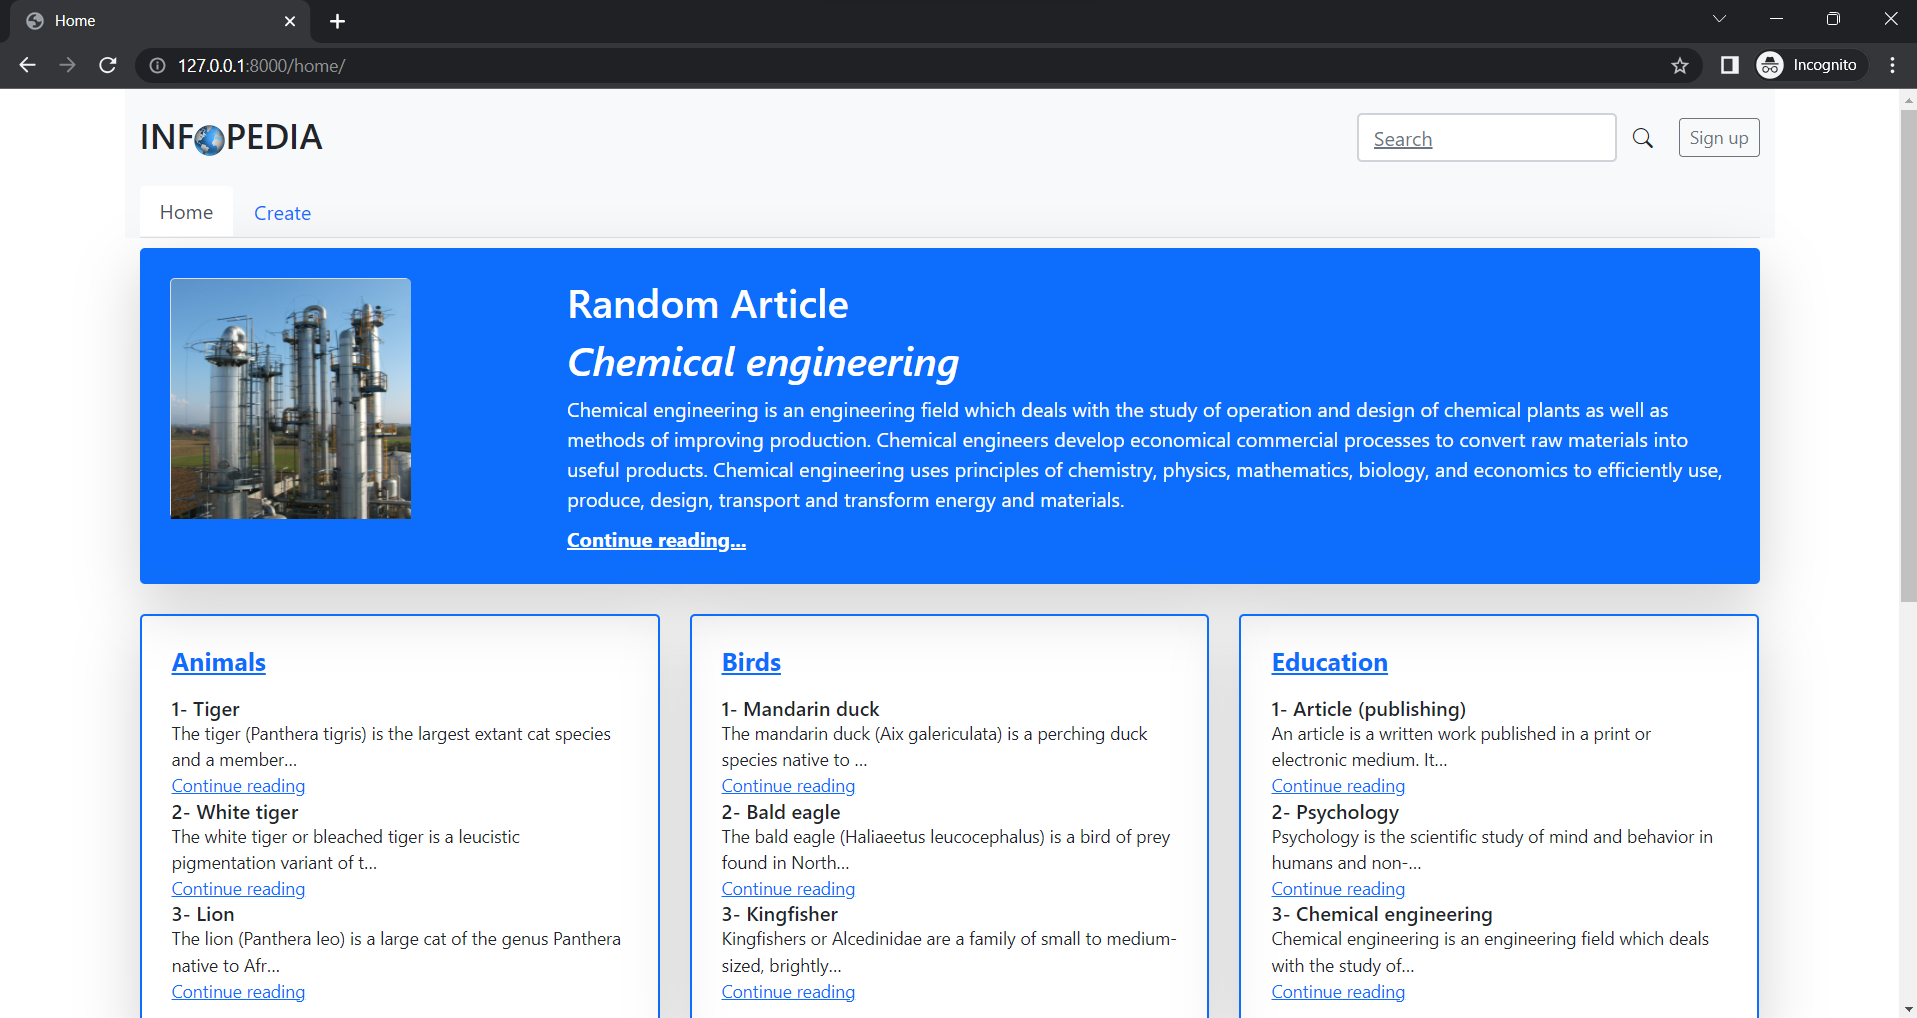
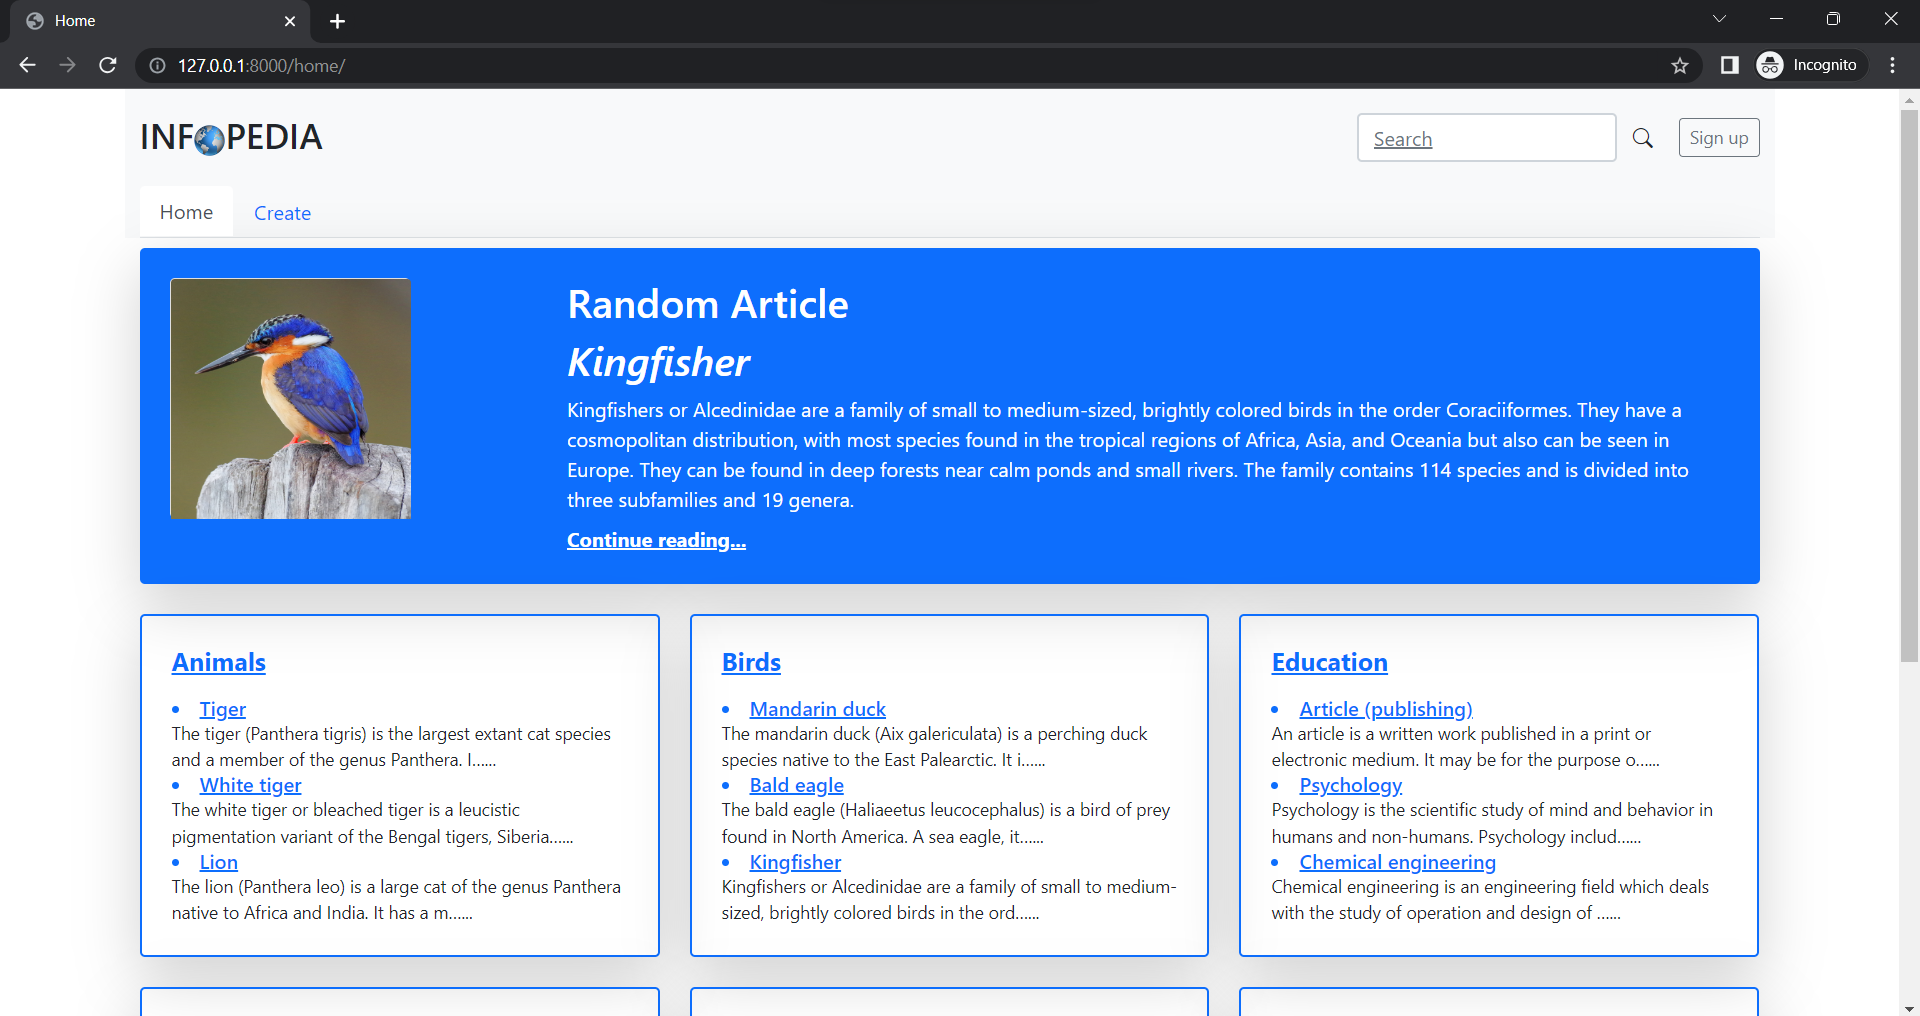
minor changes

diff --git a/index/templates/index/articles/home.html b/index/templates/index/articles/home.html
@@ -33,9 +33,10 @@
       <div class="col p-4 d-flex flex-column position-static">
         <h5><strong class="d-inline-block mb-2 text-primary"><a href="{% url 'category' category.id  category.category %}">{{category}}</a></strong></h5>
         {% for article in category.mainarticle.all|slice:":3" %}
-        <h6 class="mb-0">{{forloop.counter}}- {{article.title}}</h6>
-        <small class="card-text mb-auto">{{article.short_description|truncatechars:75}}</small>
-        <small><a href="{% url 'article_detail' article.id article.slug %}" class="">Continue reading</a></small>
+        <a href="{% url 'article_detail' article.id article.slug %}" class="">
+          <h6 class="mb-0"><li> {{article.title}}</li></h6>
+        </a>
+        <small class="card-text mb-auto">{{article.short_description|truncatechars:100}}...</small>
         {% endfor %}
       </div>
     </div>
